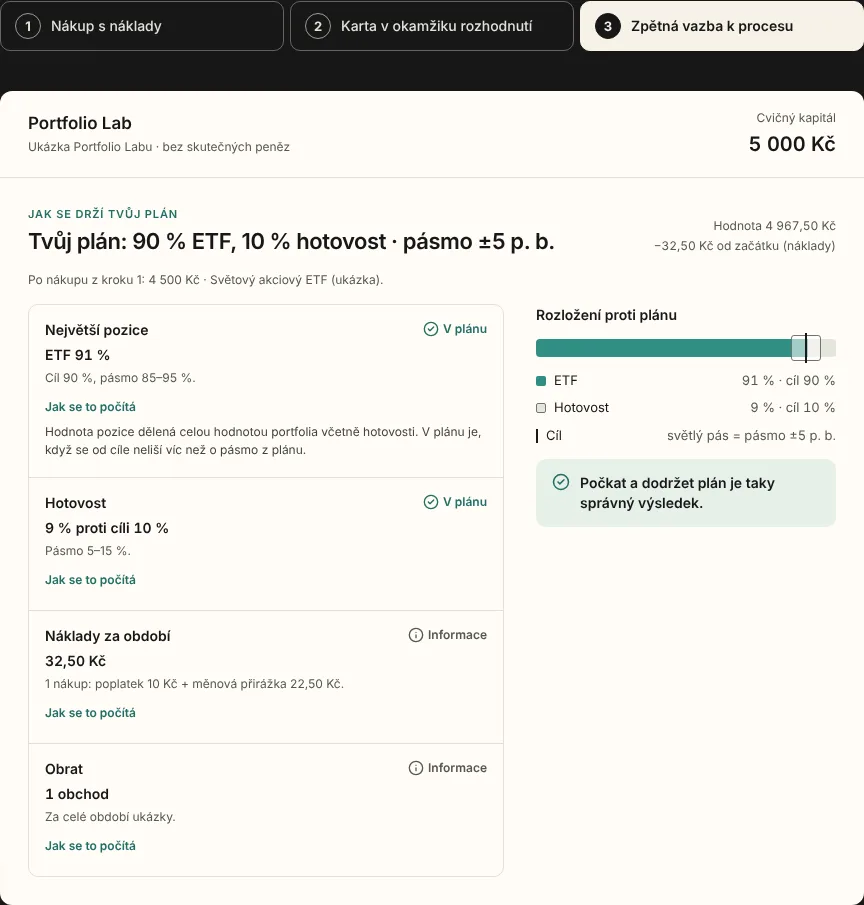
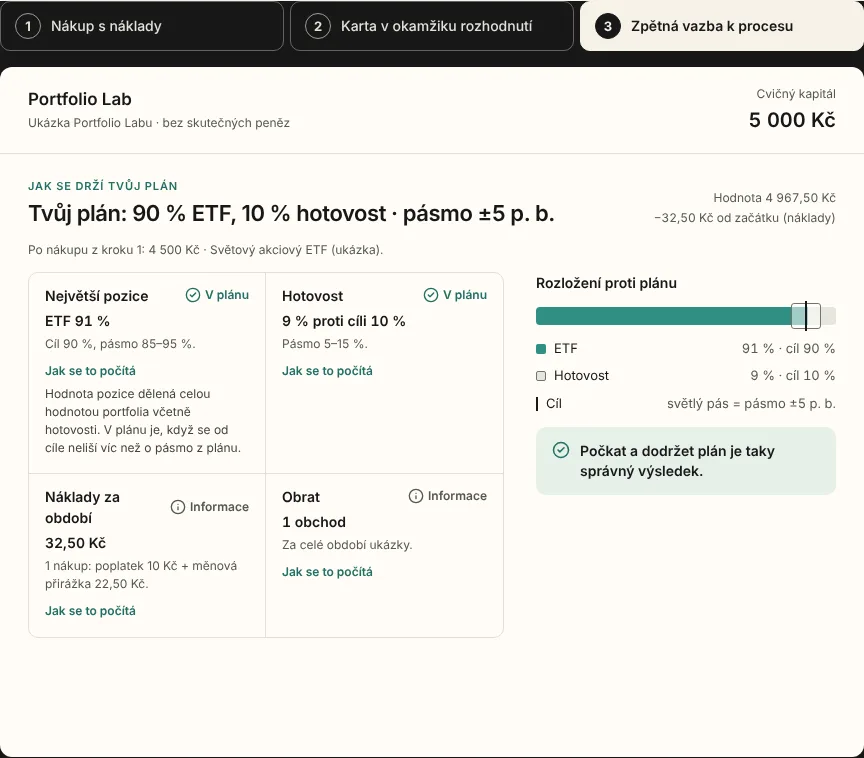
feat: scroll-driven Portfolio Lab demo on tall desktops
On desktops tall enough for the tallest step, the demo and crisis drill
pin while the scroll walks purchase → off-plan card → process feedback,
then the page scrolls on. Tabs and step buttons scroll to their step so
position and state agree; a thin bar shows progress and the nav stays
hidden while pinned. Panels share one grid cell so steps never change the
section height, and the process criteria use two columns to fit laptop
viewports. Reduced motion, mobile and short windows keep plain tabs.

Claude-Session: https://claude.ai/code/session_01QJPrQhsykrPBoFEWFYB7p4

diff --git a/src/components/marketing/portfolio-lab-demo.tsx b/src/components/marketing/portfolio-lab-demo.tsx
@@ -1,6 +1,6 @@
 "use client";
 
-import { useId, useRef, useState, useSyncExternalStore, type ReactNode } from "react";
+import { useId, useLayoutEffect, useRef, useState, useSyncExternalStore, type ReactNode } from "react";
 import { ArrowRight, CircleAlert, CircleCheck, Info, MapPinned, Search } from "lucide-react";
 import { Button } from "@/components/ui/button";
 import { formatPracticeCapitalMinor as money } from "@/features/rewards/presentation";
@@ -10,9 +10,10 @@ import {
   DEMO_DEFAULT_AMOUNT_KC, DEMO_INSTRUMENTS, DEMO_LESSON_CAPITAL_MINOR, DEMO_PLAN, DEMO_TARIFFS, DEMO_UNLOCK_CAPITAL_MINOR, demoCost,
   demoProcess, tariff, wholePercent, type CrisisChoice, type DemoInstrumentId, type DemoTariffId,
 } from "./portfolio-lab-demo-model";
+import { PORTFOLIO_STEP_EVENT, PORTFOLIO_STEP_REQUEST_EVENT, type PortfolioStep, type PortfolioStepDetail, type PortfolioStepRequestDetail } from "./motion/events";
 import styles from "./portfolio-lab-demo.module.css";
 
-type Step = 1 | 2 | 3;
+type Step = PortfolioStep;
 const STEPS: readonly { step: Step; label: string }[] = [
   { step: 1, label: "Nákup s náklady" },
   { step: 2, label: "Karta v okamžiku rozhodnutí" },
@@ -38,24 +39,56 @@ const PLAN_LINE = `${planPct(DEMO_PLAN.etfBps)} ETF, ${planPct(DEMO_PLAN.cashBps
  * Landing illustration of the Portfolio Lab loop (Pen 14.2): a purchase with real fictional-tariff costs,
  * a decision-time card for an off-plan instrument, and process feedback against an illustrative plan,
  * plus a one-decision crisis drill. Local state only: no portfolio, session, reward or request.
+ *
+ * On tall desktops the motion layer pins the demo and drives the step from the scroll position
+ * (PORTFOLIO_STEP_EVENT). In that mode tabs and step buttons ask it to scroll to the step instead of
+ * switching locally, so the scroll position and the visible step never disagree. Until the visitor picks an
+ * instrument, the scroll also acts out the off-plan choice on step 2.
  */
 export function PortfolioLabDemo() {
   const tabs = useTabsLayout();
   const [step, setStep] = useState<Step>(1);
+  const [driven, setDriven] = useState(false);
   const [amountRaw, setAmountRaw] = useState(formatDecimal(DEMO_DEFAULT_AMOUNT_KC));
   const [tariffId, setTariffId] = useState<DemoTariffId>(DEMO_TARIFFS[0].id);
   const [instrument, setInstrument] = useState<DemoInstrumentId>("etf");
   const [waited, setWaited] = useState(false);
+  const picked = useRef(false);
+  const rootRef = useRef<HTMLDivElement>(null);
   const baseId = useId();
   const panelRefs = useRef<Record<Step, HTMLElement | null>>({ 1: null, 2: null, 3: null });
   const tabRefs = useRef<Record<Step, HTMLButtonElement | null>>({ 1: null, 2: null, 3: null });
   const amount = checkAmount(amountRaw, tariffId);
 
-  function goTo(next: Step) {
+  // Layout effect: the listener must exist before the motion layer's layout effect switches driven mode on.
+  useLayoutEffect(() => {
+    const element = rootRef.current;
+    if (!element) return;
+    const onStep = (event: Event) => {
+      const { driven: nextDriven, step: nextStep } = (event as CustomEvent<PortfolioStepDetail>).detail;
+      if (nextDriven !== undefined) setDriven(nextDriven);
+      if (nextStep === undefined) return;
+      setStep(nextStep);
+      setWaited(false);
+      if (!picked.current) setInstrument(nextStep === 2 ? "stock" : "etf");
+    };
+    element.addEventListener(PORTFOLIO_STEP_EVENT, onStep);
+    return () => element.removeEventListener(PORTFOLIO_STEP_EVENT, onStep);
+  }, []);
+
+  function show(next: Step) {
     setWaited(false);
-    if (tabs) setStep(next);
-    // Focus the destination heading after React shows it; on mobile this also scrolls it into view.
+    if (driven) rootRef.current?.dispatchEvent(new CustomEvent<PortfolioStepRequestDetail>(PORTFOLIO_STEP_REQUEST_EVENT, { detail: { step: next } }));
+    else if (tabs) setStep(next);
+  }
+  function goTo(next: Step) {
+    show(next);
+    // Focus the destination heading once it shows; on mobile this also scrolls it into view.
     requestAnimationFrame(() => panelRefs.current[next]?.querySelector<HTMLElement>("[data-panel-heading]")?.focus({ preventScroll: tabs }));
+  }
+  function pick(id: DemoInstrumentId) {
+    picked.current = true;
+    setInstrument(id);
   }
   function onTabKey(event: React.KeyboardEvent, current: Step) {
     const order: Step[] = [1, 2, 3];
@@ -64,14 +97,16 @@ export function PortfolioLabDemo() {
       : event.key === "Home" ? 1 : event.key === "End" ? 3 : null;
     if (!next) return;
     event.preventDefault();
-    setStep(next);
-    tabRefs.current[next]?.focus();
+    show(next);
+    tabRefs.current[next]?.focus({ preventScroll: true });
   }
 
   const panel = (current: Step, children: ReactNode) => {
     const label = STEPS[current - 1].label;
-    const hidden = tabs && step !== current;
-    return <section key={current} ref={(element) => { panelRefs.current[current] = element; }} className={styles.stepBlock} hidden={hidden}
+    // With tabs every panel shares one grid cell, so the demo keeps the tallest step's height and never jumps.
+    const inactive = tabs && step !== current;
+    return <section key={current} ref={(element) => { panelRefs.current[current] = element; }} className={styles.stepBlock}
+      data-inactive={inactive ? "" : undefined} inert={inactive} aria-hidden={inactive || undefined}
       id={`${baseId}-panel-${current}`} role={tabs ? "tabpanel" : undefined} aria-labelledby={tabs ? `${baseId}-tab-${current}` : `${baseId}-step-${current}`}
       data-demo-step={current}>
       {!tabs && <div className={styles.stepLabel}><span aria-hidden="true">{current}</span><h3 id={`${baseId}-step-${current}`}><small>Krok {current} ze 3</small>{label}</h3></div>}
@@ -85,19 +120,24 @@ export function PortfolioLabDemo() {
     </section>;
   };
 
-  return <div className={styles.demo} data-portfolio-demo>
-    {tabs && <div role="tablist" aria-label="Kroky ukázky Portfolio Labu" className={styles.tablist}>
-      {STEPS.map(({ step: tab, label }) => <button key={tab} type="button" role="tab" id={`${baseId}-tab-${tab}`} aria-controls={`${baseId}-panel-${tab}`}
-        aria-selected={step === tab} tabIndex={step === tab ? 0 : -1} className={styles.tab} ref={(element) => { tabRefs.current[tab] = element; }}
-        onClick={() => { setWaited(false); setStep(tab); }} onKeyDown={(event) => onTabKey(event, tab)}>
-        <span className={styles.tabNumber} aria-hidden="true">{tab}</span>{label}
-      </button>)}
+  return <div ref={rootRef} className={styles.demo} data-portfolio-demo data-driven={driven ? "" : undefined}>
+    {tabs && <div className={styles.tabsWrap}>
+      <div role="tablist" aria-label="Kroky ukázky Portfolio Labu" className={styles.tablist}>
+        {STEPS.map(({ step: tab, label }) => <button key={tab} type="button" role="tab" id={`${baseId}-tab-${tab}`} aria-controls={`${baseId}-panel-${tab}`}
+          aria-selected={step === tab} tabIndex={step === tab ? 0 : -1} className={styles.tab} ref={(element) => { tabRefs.current[tab] = element; }}
+          onClick={() => show(tab)} onKeyDown={(event) => onTabKey(event, tab)}>
+          <span className={styles.tabNumber} aria-hidden="true">{tab}</span>{label}
+        </button>)}
+      </div>
+      {driven && <div className={styles.scrollProgress} aria-hidden="true"><span data-step-progress /></div>}
     </div>}
-    {panel(1, <PurchaseStep amountRaw={amountRaw} setAmountRaw={setAmountRaw} tariffId={tariffId} setTariffId={setTariffId}
-      instrument={instrument} waited={waited} onWait={() => setWaited(true)} onChange={() => goTo(2)} onBuy={() => goTo(3)} />)}
-    {panel(2, <DecisionStep amountRaw={amountRaw} setAmountRaw={setAmountRaw} tariffId={tariffId} instrument={instrument}
-      setInstrument={setInstrument} onBack={() => { setInstrument("etf"); goTo(1); }} onContinue={() => goTo(1)} />)}
-    {panel(3, <ProcessStep amountKc={amount.ok ? amount.amountKc : null} tariffId={tariffId} instrument={instrument} onFix={() => goTo(1)} />)}
+    <div className={tabs ? styles.panelStack : styles.panelList}>
+      {panel(1, <PurchaseStep amountRaw={amountRaw} setAmountRaw={setAmountRaw} tariffId={tariffId} setTariffId={setTariffId}
+        instrument={instrument} waited={waited} onWait={() => setWaited(true)} onChange={() => goTo(2)} onBuy={() => goTo(3)} />)}
+      {panel(2, <DecisionStep amountRaw={amountRaw} setAmountRaw={setAmountRaw} tariffId={tariffId} instrument={instrument}
+        setInstrument={pick} onBack={() => { picked.current = false; setInstrument("etf"); goTo(1); }} onContinue={() => goTo(1)} />)}
+      {panel(3, <ProcessStep amountKc={amount.ok ? amount.amountKc : null} tariffId={tariffId} instrument={instrument} onFix={() => goTo(1)} />)}
+    </div>
   </div>;
 }
 

diff --git a/src/components/marketing/portfolio-lab-demo.module.css b/src/components/marketing/portfolio-lab-demo.module.css
@@ -16,8 +16,16 @@
 @media (hover: hover) and (pointer: fine) { .tab[aria-selected="false"]:hover { border-color: #f7f2e8b3; color: var(--color-background); } }
 
 /* Stacked step labels (mobile) */
-.stepBlock[hidden] { display: none; }
-.stepBlock + .stepBlock { margin-top: 24px; }
+.panelList .stepBlock + .stepBlock { margin-top: 24px; }
+/* Tabs: all panels share one grid cell; the inactive ones stay laid out but invisible and inert. */
+.panelStack { display: grid; }
+.panelStack > .stepBlock { grid-area: 1 / 1; display: flex; flex-direction: column; transition: opacity .28s ease, visibility .28s; }
+.panelStack > .stepBlock > .panel { flex: 1; display: flex; flex-direction: column; }
+.panelStack > .stepBlock > .panel > :last-child { flex: 1; }
+.panelStack > .stepBlock[data-inactive] { opacity: 0; visibility: hidden; }
+.tabsWrap { display: flex; flex-direction: column; gap: 10px; }
+.scrollProgress { height: 2px; border-radius: 1px; background: #f7f2e833; overflow: hidden; }
+.scrollProgress span { display: block; height: 100%; background: var(--color-warning); transform: scaleX(0); transform-origin: 0 50%; }
 .stepLabel { display: flex; align-items: center; gap: 12px; margin-bottom: 16px; color: var(--color-background); }
 .stepLabel > span { flex-shrink: 0; display: grid; place-items: center; width: 28px; height: 28px; border-radius: 50%; background: var(--color-background); color: var(--color-foreground); font-size: .8125rem; font-weight: 700; }
 .stepLabel h3 { font-size: 1.25rem !important; line-height: 1.2; letter-spacing: -.01em !important; display: flex; flex-direction: column; }
@@ -115,20 +123,24 @@
 .cardActions { display: flex; flex-direction: column; gap: 8px; }
 
 /* Step 3 */
-.processBody { display: flex; flex-direction: column; gap: 16px; padding: 28px; }
+.processBody { display: flex; flex-direction: column; gap: 14px; padding: 24px 28px 28px; }
 .processHead { display: flex; justify-content: space-between; align-items: flex-end; gap: 24px; }
 .processHead .panelHeading h4 { font-size: 1.375rem; }
 .valueMeta { display: flex; flex-direction: column; align-items: flex-end; gap: 2px; font-size: .75rem; color: var(--color-muted); text-align: right; white-space: nowrap; font-variant-numeric: tabular-nums; }
 .processGrid { display: grid; grid-template-columns: minmax(0, 1fr) 300px; gap: 32px; align-items: start; }
 .criteria { list-style: none; margin: 0; padding: 0; border: 1px solid var(--color-divider); border-radius: 10px; }
-.criterion { padding: 14px 16px; border-bottom: 1px solid var(--color-divider); display: flex; flex-direction: column; gap: 4px; }
+/* Two columns keep step 3 about as tall as step 1, so the pinned demo fits laptop viewports. */
+.criteria { display: grid; grid-template-columns: repeat(2, minmax(0, 1fr)); }
+.criteria > .criterion:nth-child(odd) { border-right: 1px solid var(--color-divider); }
+.criteria > .criterion:nth-last-child(-n + 2) { border-bottom: 0; }
+.criterion { padding: 12px 16px; border-bottom: 1px solid var(--color-divider); display: flex; flex-direction: column; gap: 4px; }
 .criterion:last-child { border-bottom: 0; }
 .criterionHead { display: flex; justify-content: space-between; align-items: center; gap: 12px; }
 .criterionHead h5 { font-family: var(--font-sans); font-size: .875rem; font-weight: 600; margin: 0; }
 .criterion > strong { font-size: .875rem; font-weight: 600; font-variant-numeric: tabular-nums; }
 .criterion > p { font-size: .75rem; color: var(--color-muted); }
 .criterion details { font-size: .75rem; }
-.criterion summary { display: inline-flex; align-items: center; min-height: 32px; color: var(--color-primary); font-weight: 600; cursor: pointer; }
+.criterion summary { display: inline-flex; align-items: center; min-height: 28px; color: var(--color-primary); font-weight: 600; cursor: pointer; }
 .criterion details p { color: var(--color-secondary); line-height: 1.5; padding-bottom: 4px; }
 .criterionStatus { display: inline-flex; align-items: center; gap: 4px; font-size: .75rem; font-weight: 600; white-space: nowrap; }
 .criterionStatus[data-kind="in"] { color: var(--color-primary); }
@@ -188,6 +200,9 @@
 }
 @media (max-width: 800px) {
   .body { grid-template-columns: minmax(0, 1fr); }
+  .criteria { grid-template-columns: minmax(0, 1fr); }
+  .criteria > .criterion:nth-child(odd) { border-right: 0; }
+  .criteria > .criterion:nth-last-child(2) { border-bottom: 1px solid var(--color-divider); }
   .processBody { padding: 24px; }
   .processHead { flex-direction: column; align-items: flex-start; gap: 8px; }
   .valueMeta { align-items: flex-start; text-align: left; }

diff --git a/src/components/marketing/motion/sections/portfolio.ts b/src/components/marketing/motion/sections/portfolio.ts
@@ -1,21 +1,44 @@
 import { gsap, ScrollTrigger, EASE } from "@/lib/gsap";
 import { $, $$ } from "../utils";
+import { scrollToY } from "../smooth-scroll";
+import {
+  PORTFOLIO_STEP_EVENT, PORTFOLIO_STEP_REQUEST_EVENT,
+  type PortfolioStep, type PortfolioStepDetail, type PortfolioStepRequestDetail,
+} from "../events";
 import type { SectionInit } from "../types";
 
 /**
- * Portfolio Lab demo: when the panel scrolls in, the cost rows of the purchase review settle in one by one and
- * the total lands last; the crisis drill draws its model index and marks the −30 % month. Only transform,
- * opacity and stroke are animated, the React state is never touched, and any input ends it at once.
+ * Wide enough for the side-by-side layout and tall enough for the tallest step without clipping (measured:
+ * ≈ 770 px at 1440, 795 px at 1280, 840 px at 1200, plus the 16 px top offset). In em so a larger default
+ * font size needs a taller window.
+ */
+export const PORTFOLIO_PIN_QUERY = "(min-width: 87.5em) and (min-height: 49.5em), (min-width: 80em) and (min-height: 51em), (min-width: 75em) and (min-height: 54em)";
+const PIN_TOP = 16;
+/** Scroll distance per step while pinned. */
+const STEP_SCROLL = 720;
+const STEPS = 3;
+
+/**
+ * Portfolio Lab demo.
+ *
+ * Pinned (tall desktops): the demo and the crisis drill hold in place while the scroll walks through the
+ * three steps (purchase → off-plan card → process feedback); a thin bar under the tabs shows the progress.
+ * After step 3 the page scrolls on. Tabs and step buttons scroll to their step, so position and state agree.
+ *
+ * Everywhere with motion: the step-1 cost rows settle in one by one and the crisis drill draws its model
+ * index. Only transform, opacity and stroke are animated; any input ends the entrance at once.
  */
 export const initPortfolio: SectionInit = ({ root, c, inContext }) => {
   const demo = $(root, "[data-portfolio-demo]");
   const crisis = $(root, "[data-crisis]");
-  if (!demo || !crisis) return;
+  const pinTarget = $(root, "[data-lab-demo]");
+  if (!demo || !crisis || !pinTarget) return;
   const rows = $$(demo, "[data-demo-step='1'] [data-cost-rows] > div");
   const total = $(demo, "[data-demo-step='1'] [data-cost-total]");
   const line = $(crisis, "[data-crisis-line]");
   const low = $(crisis, "[data-crisis-low]");
 
+  // --- Entrance -------------------------------------------------------------------------------------------
   gsap.set(rows, { autoAlpha: 0, y: 8 });
   if (line) gsap.set(line, { drawSVG: "0%" });
   if (low) gsap.set(low, { scale: 0, transformOrigin: "50% 50%" });
@@ -42,5 +65,37 @@ export const initPortfolio: SectionInit = ({ root, c, inContext }) => {
     }),
   });
 
-  return finish;
+  // --- Scroll-driven steps --------------------------------------------------------------------------------
+  const send = (detail: PortfolioStepDetail) => demo.dispatchEvent(new CustomEvent<PortfolioStepDetail>(PORTFOLIO_STEP_EVENT, { detail }));
+  const mm = gsap.matchMedia();
+  mm.add(PORTFOLIO_PIN_QUERY, () => {
+    let current: PortfolioStep = 1;
+    send({ driven: true, step: current });
+    const stepAt = (progress: number) => Math.min(STEPS, Math.floor(progress * STEPS) + 1) as PortfolioStep;
+    const bar = () => $(demo, "[data-step-progress]"); // rendered by React once driven mode is on
+    const trigger = ScrollTrigger.create({
+      trigger: pinTarget, start: `top top+=${PIN_TOP}`, end: `+=${STEP_SCROLL * STEPS}`,
+      pin: true, anticipatePin: 1, invalidateOnRefresh: true,
+      onToggle: self => { root.toggleAttribute("data-lab-pinned", self.isActive); },
+      onUpdate: self => {
+        const progressBar = bar();
+        if (progressBar) gsap.set(progressBar, { scaleX: self.progress });
+        const next = stepAt(self.progress);
+        if (next !== current) { current = next; send({ step: next }); }
+      },
+    });
+    // Land a little inside the step's range so rounding never shows the neighbour.
+    const onRequest = (event: Event) => {
+      const { step } = (event as CustomEvent<PortfolioStepRequestDetail>).detail;
+      scrollToY(trigger.start + (trigger.end - trigger.start) * ((step - 1) / STEPS + 0.04));
+    };
+    demo.addEventListener(PORTFOLIO_STEP_REQUEST_EVENT, onRequest);
+    return () => {
+      demo.removeEventListener(PORTFOLIO_STEP_REQUEST_EVENT, onRequest);
+      root.removeAttribute("data-lab-pinned");
+      send({ driven: false });
+    };
+  });
+
+  return () => { mm.revert(); finish(); };
 };

diff --git a/src/components/marketing/pen-landing.tsx b/src/components/marketing/pen-landing.tsx
@@ -115,7 +115,7 @@ export function PenLanding() {
       <section className={styles.labSection} id="portfolio-lab" aria-labelledby="lab-title">
         <div className={styles.container}>
           <div className={styles.labIntro}><div><p className={styles.eyebrow} data-reveal="fade">PORTFOLIO LAB A KRIZOVÝ NÁCVIK</p><SplitHeading id="lab-title" mode="lines">Proces,<br/>ne výnos.</SplitHeading></div><div className={styles.labExplanation} data-reveal data-reveal-delay="0.25"><p>Svůj plán si vyzkoušíš s cvičným kapitálem, který dostaneš za lekce. Lab ukáže náklady, rozložení a soulad s tvým investičním plánem. A někdy je správným výsledkem prostě vyčkat.</p><small>Hodnotí se postup, ne zisk. Nic se doopravdy nekupuje.</small></div></div>
-          <div className={styles.labDemo} role="group" aria-label="Ukázka Portfolio Labu; nic nekupuje ani neukládá" data-reveal><PortfolioLabDemo/><CrisisDrill/></div>
+          <div className={styles.labDemo} data-lab-demo role="group" aria-label="Ukázka Portfolio Labu; nic nekupuje ani neukládá" data-reveal><PortfolioLabDemo/><CrisisDrill/></div>
           <div className={styles.labFooter}><p>Výukový model s fiktivními cenami a tarify. Nejde o investiční doporučení ani odhad budoucího výnosu.</p><Link href="/onboarding" prefetch={false} className={styles.primaryButton} data-lift data-press {...magneticProps}>Začít učením <ArrowRight aria-hidden="true" size={18}/></Link></div>
         </div>
       </section>

diff --git a/src/components/marketing/motion/smooth-scroll.ts b/src/components/marketing/motion/smooth-scroll.ts
@@ -2,6 +2,13 @@ import Lenis from "lenis";
 import { gsap, ScrollTrigger } from "@/lib/gsap";
 import type { SectionInit } from "./types";
 
+let activeLenis: Lenis | null = null;
+/** Scroll to an absolute position through Lenis when it runs (same easing as anchors), natively otherwise. */
+export function scrollToY(y: number) {
+  if (activeLenis) activeLenis.scrollTo(y, { duration: 0.9 });
+  else window.scrollTo({ top: y });
+}
+
 /**
  * Lenis smooth scroll driven by the GSAP ticker so ScrollTrigger and Lenis share one clock.
  * In-page anchors are routed through lenis.scrollTo; the skip link (#main) stays fully native.
@@ -9,6 +16,7 @@ import type { SectionInit } from "./types";
  */
 export const initSmoothScroll: SectionInit = ({ root }) => {
   const lenis = new Lenis({ duration: 1.1, easing: t => Math.min(1, 1.001 - Math.pow(2, -10 * t)), smoothWheel: true });
+  activeLenis = lenis;
   lenis.on("scroll", ScrollTrigger.update);
   const tick = (time: number) => lenis.raf(time * 1000);
   gsap.ticker.add(tick);
@@ -53,6 +61,7 @@ export const initSmoothScroll: SectionInit = ({ root }) => {
     stopLanding();
     gsap.ticker.remove(tick);
     gsap.ticker.lagSmoothing(500, 33);
+    if (activeLenis === lenis) activeLenis = null;
     lenis.destroy();
   };
 };

diff --git a/src/components/marketing/motion/events.ts b/src/components/marketing/motion/events.ts
@@ -4,3 +4,12 @@ export type LessonDemoDetail = { answer: "A" | "B" | null; revealed: boolean; ho
   /** Set when dispatched from a React lifecycle (cannot flushSync there); state then applies on the next render. */
   defer?: boolean };
 
+
+/** Scroll-driven Portfolio Lab demo. The motion layer pins the demo on tall desktops and maps scroll to a step. */
+export const PORTFOLIO_STEP_EVENT = "investi:portfolio-step";
+export type PortfolioStep = 1 | 2 | 3;
+/** `driven` switches the demo into scroll-driven mode (or back); `step` is the step the scroll position shows. */
+export type PortfolioStepDetail = { driven?: boolean; step?: PortfolioStep };
+/** Sent by the demo while scroll-driven: a tab or button asks the motion layer to scroll to that step. */
+export const PORTFOLIO_STEP_REQUEST_EVENT = "investi:portfolio-step-request";
+export type PortfolioStepRequestDetail = { step: PortfolioStep };

diff --git a/src/components/marketing/motion/sections/global.ts b/src/components/marketing/motion/sections/global.ts
@@ -44,7 +44,9 @@ export const initNav: SectionInit = ({ root }) => {
       const y = self.scroll();
       gsap.to(bg, { autoAlpha: y > 24 ? 1 : 0, duration: 0.35, overwrite: "auto" });
       const keepVisible = details?.open || header.contains(document.activeElement);
-      const hide = self.direction === 1 && y > 240 && !keepVisible;
+      // While the Portfolio Lab demo is pinned the bar would cover its step tabs, so it stays away.
+      const pinned = root.hasAttribute("data-lab-pinned");
+      const hide = (pinned || (self.direction === 1 && y > 240)) && !keepVisible;
       if (hide || self.direction === -1 || y <= 240) {
         gsap.to(header, { yPercent: hide ? -110 : 0, duration: 0.45, ease: EASE.enter, overwrite: "auto" });
       }

diff --git a/src/components/marketing/motion/ANIMATIONS.md b/src/components/marketing/motion/ANIMATIONS.md
@@ -17,7 +17,7 @@ The landing page (`src/components/marketing/pen-landing.tsx`) has a GSAP motion 
 | `motion/reveal.tsx` | Markup-only helpers: `<SplitHeading>`, `magneticProps`. They render plain HTML with `data-*` hooks, so SSR and no-JS output is the final state. |
 | `motion/utils.ts` | `useReveal`, `splitHeading` / `useSplitHeadings`, `magnetic`, `hoverLift`, `pressFeedback`, `fontsReady`. |
 | `motion/smooth-scroll.ts` | Lenis on the GSAP ticker. In-page `#anchors` go through `lenis.scrollTo` and then move focus to the target. `#main` (the skip link) stays native. Deep links re-land after pin refreshes. |
-| `motion/events.ts` | DOM events that let the motion layer drive the React lesson preview (`LessonPreview`). React still renders everything, and the demos never touch real state. |
+| `motion/events.ts` | DOM events that let the motion layer drive the React previews (`LessonPreview`, the Portfolio Lab demo step). React still renders everything, and the demos never touch real state. |
 | `motion/sections/*.ts` | Choreography for each section (below). |
 
 ### Rules the code follows
@@ -40,7 +40,7 @@ The landing page (`src/components/marketing/pen-landing.tsx`) has a GSAP motion 
 | 3 | Hero lesson card | card top hits 80% of viewport (desktop) | A ghost cursor picks B and clicks check. The feedback expands, the "Správně" badge pops (`back.out(1.4)`) with a 10-dot burst, and the progress fills. The lesson previews are read-only illustrations (no clickable answers or submit), so the demo always runs to its end state. | `sections/lesson-demo.ts › armHeroDemo`, `burst()` |
 | 4 | Jak to funguje | card top hits 78% | Path rows cascade (0.12s stagger), statuses fade in, and "Doporučený začátek" pulses gently. Steps 01 → 02 → 03: number flips in, copy reveals, the previous step dims, and a line draws. Pinned (+1700px scroll) on desktop at least 880px tall; unpinned scrub on shorter desktops; plain staggered reveals on mobile. | `sections/journey.ts` (`end: "+=1700"`, `MQ.tall` in `lib/gsap.ts`) |
 | 5 | Krátké lekce | heading words / card top hits 70% | Heading word reveal. The cursor picks the wrong answer A, which shakes; the explanation slides in and B glows. | `armCompactDemo` (shake keyframes, glow repeats) |
-| 6 | Portfolio Lab | demo top hits 65% (75% on mobile) | Heading line reveal. The step-1 cost rows of the purchase review settle in one by one and the total lands last; the crisis drill draws the model index (`model-crisis-v1`, months 0–12) and marks the −30 % month. React state is never touched; any input ends it immediately. | `sections/portfolio.ts` |
+| 6 | Portfolio Lab | demo top hits 65% (75% on mobile); pin at `top top+=16` | Heading line reveal. The step-1 cost rows settle in one by one and the total lands last; the crisis drill draws the model index (`model-crisis-v1`, months 0–12) and marks the −30 % month. On desktops tall enough for the tallest step (`PORTFOLIO_PIN_QUERY`, em tiers from 1200 px wide) the demo and crisis drill pin for 3 × 720 px: scroll walks purchase → off-plan card → process feedback (`PORTFOLIO_STEP_EVENT`), a thin butter bar under the tabs shows progress, the nav stays hidden while pinned, then the page scrolls on. Tabs and step buttons scroll to their step (`PORTFOLIO_STEP_REQUEST_EVENT`). Until the visitor picks an instrument, step 2 acts out the off-plan choice. Reduced motion, mobile and short windows keep plain tabs / stacked steps. | `sections/portfolio.ts` (`STEP_SCROLL`) |
 | 7 | Trust | card top hits 78% | The illustration fades in and the items ease in slowly, one by one. | `sections/progress.ts` |
 | 8 | Final CTA | scroll | Heading char reveal (0.025s stagger; words on mobile), illustration fades in place (no movement), copy and actions reveal. The primary button sheens on hover only (never at rest), plus magnetic hover. | `sections/closing.ts`, `sheen()` in `utils.ts` |
 | 9 | Footer | footer enters viewport | Single fade-up | `initFooter` |
